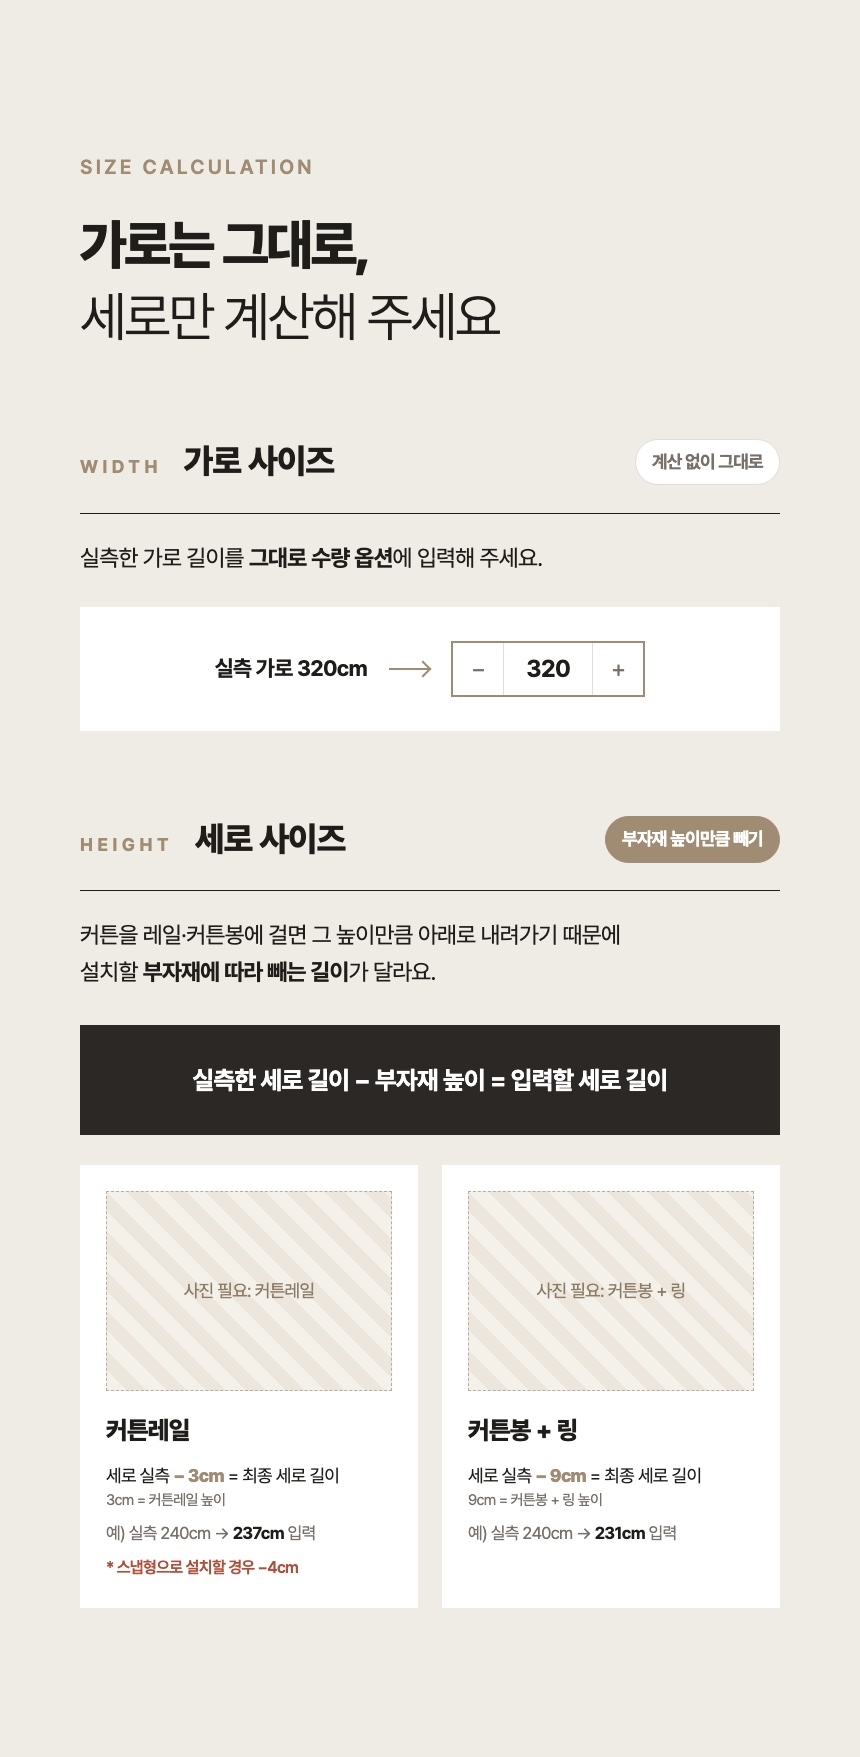
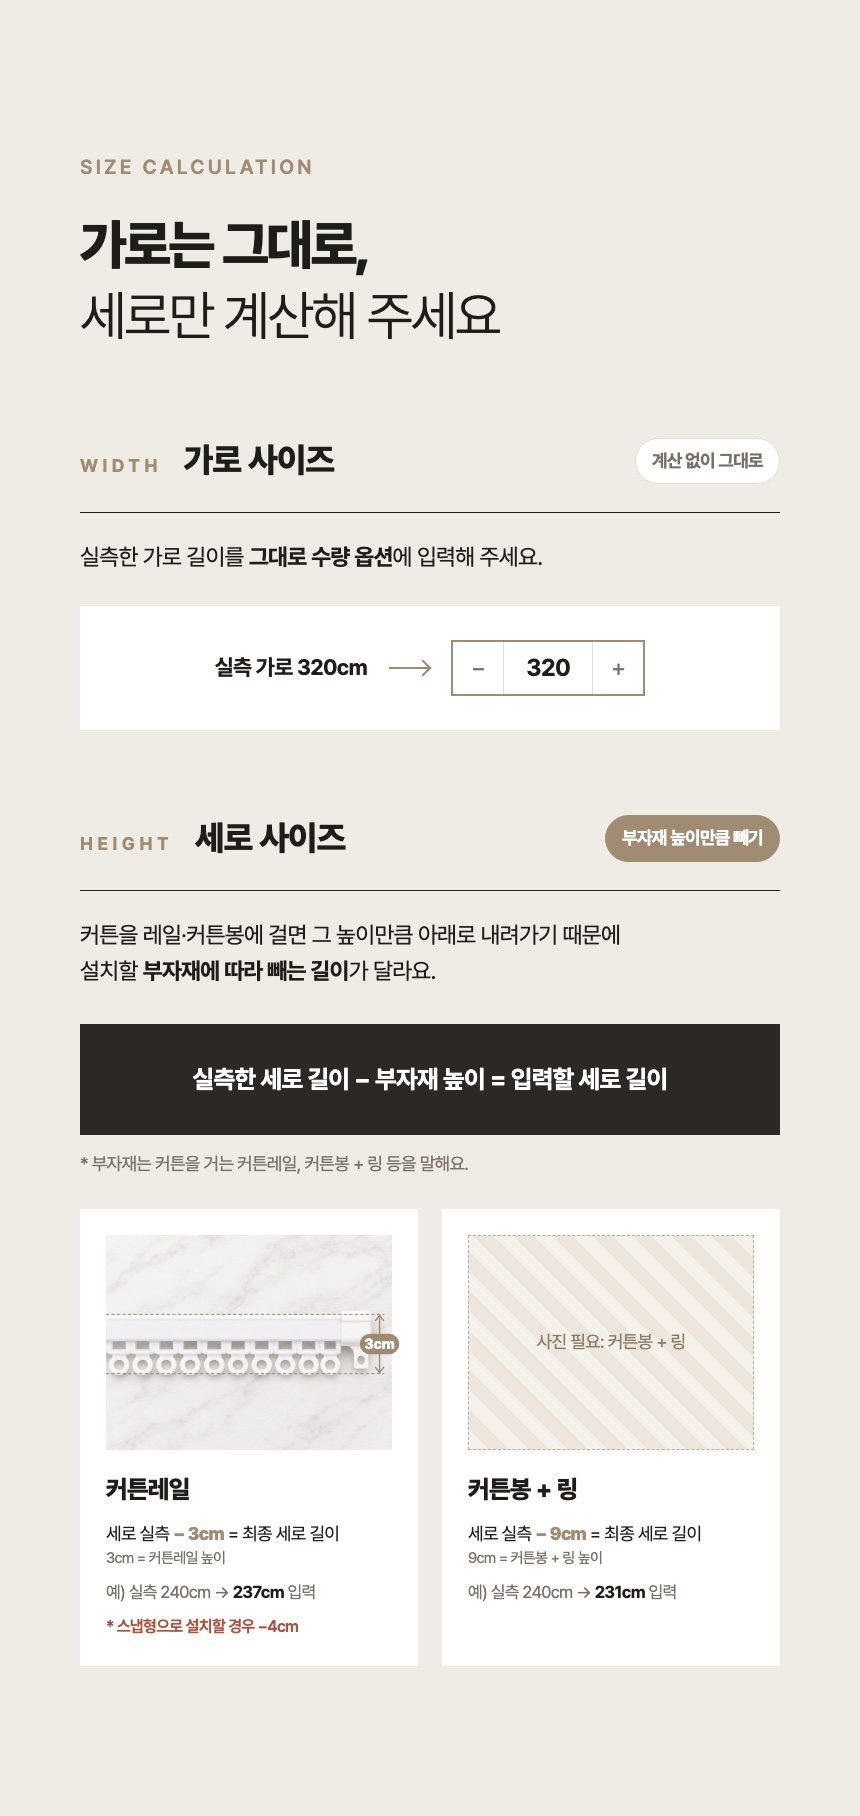
12 사이즈계산: 커튼레일 사진·3cm 높이 표시, 부자재 설명 추가 / 14 추가상품: 커튼레일 사진

diff --git a/moel-sheer-curtain/naver/index.html b/moel-sheer-curtain/naver/index.html
@@ -467,6 +467,11 @@ body.final .todo { display: none; }
 .fab .colorsphoto .trio { display: grid; grid-template-columns: repeat(3, 1fr); gap: 6px; }
 .fab .colorsphoto .trio > div { overflow: hidden; }
 .fab .colorsphoto .trio img { aspect-ratio: 840 / 1190; object-fit: cover; object-position: center; transform: scale(1.05); }   .fab .room.pair { display: flex; gap: 0; }   .fab .room.pair img { width: 100%; aspect-ratio: auto; }
+.part .pimg, .addon .pimg { width: 100%; height: 200px; object-fit: cover; object-position: 85% center; display: block; }   .part .pfig { position: relative; }
+.part .pfig img { width: 100%; aspect-ratio: 1448 / 1086; display: block; }
+.part .pfig .pdim { position: absolute; inset: 0; width: 100%; height: 100%; overflow: visible; }
+.part .ph { height: auto; aspect-ratio: 1448 / 1086; }
+.fdesc { margin-top: 14px; font-size: 18px; color: var(--sub); }
 
 </style>
 <script>
@@ -560,7 +565,7 @@ const FABRICS = [
 
 
 const RAILS = [
-  { name: '커튼레일', minus: 3, note: '스냅형으로 설치할 경우 −4cm' },
+  { name: '커튼레일', minus: 3, note: '스냅형으로 설치할 경우 −4cm', photo: 'rail', dim: [402, 702] },
   { name: '커튼봉 + 링', minus: 9 },
 ];
 
@@ -920,6 +925,7 @@ const LIMIT = { maxHeight: 260, maxSingle: 240 };
     <div class="head"><span class="s">HEIGHT</span><h3>세로 사이즈</h3><em class="ctag on">부자재 높이만큼 빼기</em></div>
     <p class="cdesc">커튼을 레일·커튼봉에 걸면 그 높이만큼 아래로 내려가기 때문에<br>설치할 <b>부자재에 따라 빼는 길이</b>가 달라요.</p>
     <div class="formula2">실측한 세로 길이 − 부자재 높이 = 입력할 세로 길이</div>
+    <p class="fdesc">* 부자재는 커튼을 거는 커튼레일, 커튼봉 + 링 등을 말해요.</p>
     <div class="parts" id="rails"></div>
   </div>
 </section>
@@ -938,7 +944,7 @@ const LIMIT = { maxHeight: 260, maxSingle: 240 };
   <h2 class="h2">추가 상품 구성</h2>
   <p class="body">레일 · 커튼봉 · 자석 타이백은 기본 상품에 포함되어 있지 않아요.<br>필요하면 추가상품으로 함께 주문해 주세요.</p>
   <div class="addon">
-    <div><div class="ph">사진 필요: 커튼레일</div><h4>커튼레일</h4><p>4자 ~ 16자<br><small>예) 8자 (130~240cm) · 롤러 32개</small></p></div>
+    <div><img class="pimg" src="../images/rail.jpg" alt="커튼레일"><h4>커튼레일</h4><p>4자 ~ 16자<br><small>예) 8자 (130~240cm) · 롤러 32개</small></p></div>
     <div><div class="ph">사진 필요: 커튼봉 + 링</div><h4>커튼봉 + 링</h4><p>핀형 · 링 포함<br><small>예) 25mm 화이트 8자 (125~240cm) · 링 28개</small></p></div>
     <div><div class="ph">사진 필요: 자석 타이백</div><h4>자석 타이백</h4><p>자석으로 간편하게<br>커튼을 묶어 정리</p></div>
   </div>
@@ -1199,9 +1205,16 @@ const LIMIT = { maxHeight: 260, maxSingle: 240 };
     </section>`).join('');
 
 
+  const dimSvg = ([t, b], cm) => { const x = 1385, m = (t + b) / 2;
+    return `<svg class="pdim" viewBox="0 0 1448 1086" aria-hidden="true">
+      <path d="M0 ${t}H${x + 24}M0 ${b}H${x + 24}" stroke="#a08a72" stroke-width="5" stroke-dasharray="16 12"/>
+      <path d="M${x} ${t + 4}V${b - 4}" stroke="#a08a72" stroke-width="7"/>
+      <path d="M${x - 22} ${t + 34}L${x} ${t + 4}L${x + 22} ${t + 34}M${x - 22} ${b - 34}L${x} ${b - 4}L${x + 22} ${b - 34}" fill="none" stroke="#a08a72" stroke-width="7"/>
+      <rect x="${x - 100}" y="${m - 52}" width="200" height="104" rx="52" fill="#a08a72"/>
+      <text x="${x}" y="${m + 26}" text-anchor="middle" font-size="74" font-weight="800" fill="#fff">${cm}cm</text></svg>`; };
   document.getElementById('rails').innerHTML = RAILS.map(r => `
     <div class="part">
-      <div class="ph">사진 필요: ${r.name}</div>
+      ${r.photo ? `<div class="pfig"><img src="${PHOTO}${r.photo}.jpg" alt="${r.name}">${r.dim ? dimSvg(r.dim, r.minus) : ''}</div>` : `<div class="ph">사진 필요: ${r.name}</div>`}
       <h4>${r.name}</h4>
       <div class="eq">세로 실측 <b>− ${r.minus}cm</b> = 최종 세로 길이<small>${r.minus}cm = ${r.name} 높이</small></div>
       <p class="exm">예) 실측 240cm → <b>${240 - r.minus}cm</b> 입력</p>

diff --git a/moel-sheer-curtain/guide/index.html b/moel-sheer-curtain/guide/index.html
@@ -96,7 +96,7 @@ const FABRICS = [
 
 
 const RAILS = [
-  { name: '커튼레일', minus: 3, note: '스냅형으로 설치할 경우 −4cm' },
+  { name: '커튼레일', minus: 3, note: '스냅형으로 설치할 경우 −4cm', photo: 'rail', dim: [402, 702] },
   { name: '커튼봉 + 링', minus: 9 },
 ];
 
